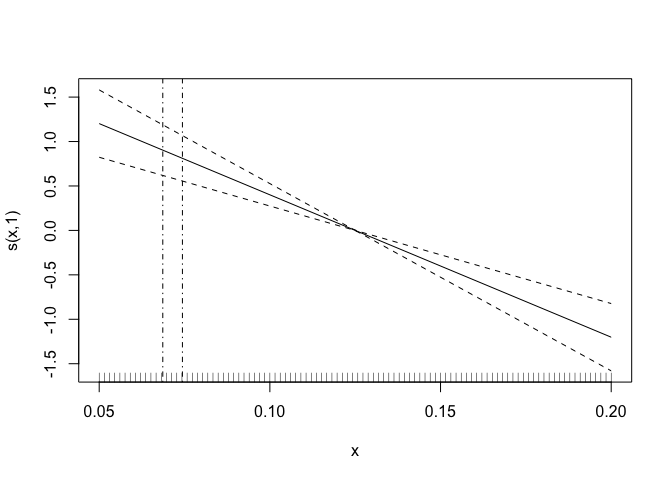
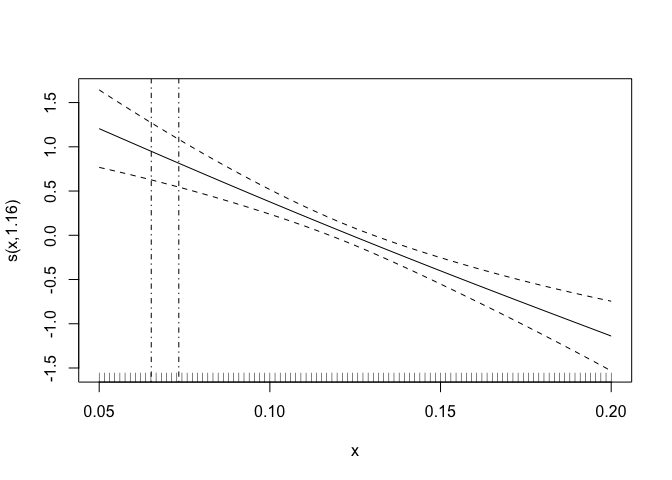
minor edits

diff --git a/README.md b/README.md
@@ -34,13 +34,13 @@ dat <- data.frame(y = rnorm(n,f(xcov)+2*x1-x2,1),x = xcov,x1=x1,x2=x2)
 head(dat)
 ```
 
-    ##          y          x         x1         x2
-    ## 1 5.500323 0.05000000 0.10184548 0.15326083
-    ## 2 6.236828 0.05151515 0.08778823 0.06383406
-    ## 3 4.947664 0.05303030 0.09106139 0.09415035
-    ## 4 4.279017 0.05454545 0.17273698 0.06942820
-    ## 5 2.273126 0.05606061 0.12235470 0.13770802
-    ## 6 3.616912 0.05757576 0.18324410 0.05495769
+    ##          y          x        x1         x2
+    ## 1 5.724611 0.05000000 0.1762715 0.07782521
+    ## 2 6.456920 0.05151515 0.1924181 0.05300267
+    ## 3 5.088898 0.05303030 0.1806373 0.13206722
+    ## 4 4.069977 0.05454545 0.1177952 0.16858532
+    ## 5 2.355033 0.05606061 0.1838956 0.17888210
+    ## 6 3.461417 0.05757576 0.1675616 0.17908829
 
 The exposure variable is `x` and there are two additional variables `x1`
 and `x2` that can be included in the model.
@@ -99,26 +99,26 @@ summary(mod)
     ## 
     ## Parametric coefficients:
     ##             Estimate Std. Error t value Pr(>|t|)    
-    ## (Intercept)   4.6199     0.5382   8.584 1.62e-13 ***
-    ## x1           -1.5349     2.4776  -0.620    0.537    
-    ## x2           -0.6121     2.4001  -0.255    0.799    
+    ## (Intercept)  4.85909    0.59050   8.229 9.39e-13 ***
+    ## x1           0.03477    2.36978   0.015    0.988    
+    ## x2          -3.74034    2.46862  -1.515    0.133    
     ## ---
     ## Signif. codes:  0 '***' 0.001 '**' 0.01 '*' 0.05 '.' 0.1 ' ' 1
     ## 
     ## Approximate significance of smooth terms:
-    ##      edf Ref.df     F  p-value    
-    ## s(x)   1      1 40.27 5.08e-09 ***
+    ##        edf Ref.df     F  p-value    
+    ## s(x) 1.157  1.288 14.62 8.92e-05 ***
     ## ---
     ## Signif. codes:  0 '***' 0.001 '**' 0.01 '*' 0.05 '.' 0.1 ' ' 1
     ## 
-    ## R-sq.(adj) =  0.2806   Deviance explained = 30.2%
-    ## GCV score = 1.2043  Scale est. = 1.1561    n = 100
+    ## R-sq.(adj) =  0.2902   Deviance explained = 31.3%
+    ## GCV score = 1.2069  Scale est. = 1.1568    n = 100
     ## 
     ## ---
     ## Benchmark dose summary:
     ## ---
     ##      bmd   bmdl
-    ## 1 0.0744 0.0686
+    ## 1 0.0733 0.0652
     ## ---
 
 ``` r
@@ -126,6 +126,10 @@ plot(mod)
 ```
 
 ![](README_files/figure-gfm/summary_plot-1.png)<!-- -->
+
+The `summary` method just appends the estimated BMD(L) onto the summary
+from the dose-response model. The `plot` method just adds vertical lines
+to the plotted `scam/gam` at the BMD and BMDL.
 
 For more detailed access, you can get the actual fitted model using
 `get_model(mod)` and the estimated BMD(L) using `get_bmd(mod)`.
